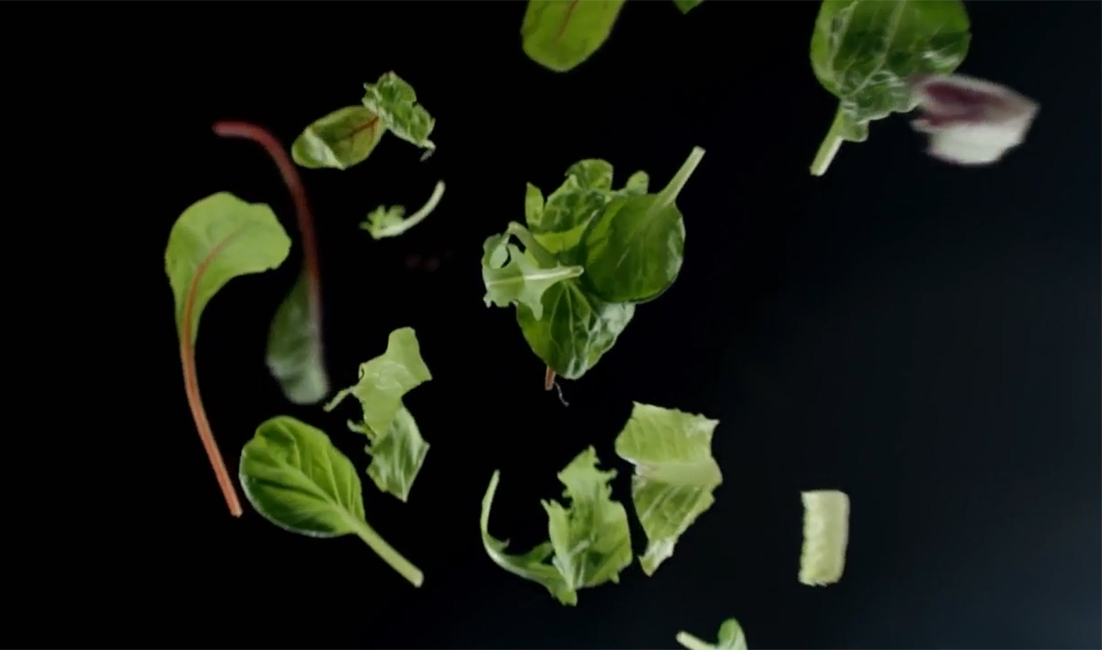
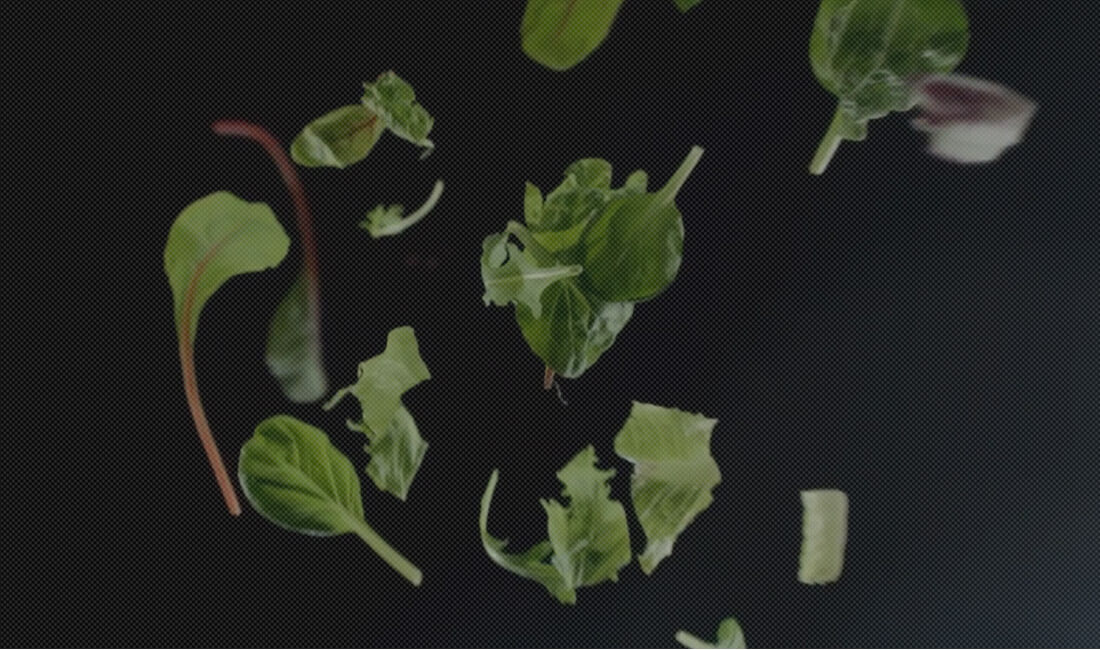
bg changes

diff --git a/css/main.css b/css/main.css
@@ -24,12 +24,9 @@
 .menu {
   position: absolute;
   right: 8%;
-  display: flex;
-  align-items: center;
 }
 .menu__list {
   display: flex;
-  align-items: center;
 }
 .menu__item {
   display: flex;
@@ -46,7 +43,6 @@
   margin-right: 0;
 }
 .menu__link {
-  font-family: 'Ubuntu', sans-serif;
   font-size: 13px;
   font-weight: 500;
   color: #fff;
@@ -65,6 +61,7 @@
 }
 .content__desc {
   line-height: 85px;
+  padding-top: 90px;
 }
 .content__desc_title {
   font-size: 72px;
@@ -189,7 +186,7 @@
   font-family: 'Gagalin Regular', sans-serif;
   font-size: 14px;
   font-weight: 400;
-  line-height: 28.11px;
+  line-height: 28px;
 }
 .reviews__content_desc {
   color: #fff;
@@ -205,7 +202,7 @@
   border-radius: 3px;
   box-sizing: border-box;
   color: white;
-  font-size: 0.8125rem;
+  font-size: 13px;
   text-transform: uppercase;
   text-decoration: none;
 }
@@ -253,13 +250,11 @@ body {
 .button {
   padding: 10px 15px;
   border-radius: 5px;
-  border: none;
   text-decoration: none;
   font-size: 13px;
   font-weight: 400;
   text-transform: uppercase;
   color: #fff;
-  align-items: flex-start;
 }
 
 .sidebar {

diff --git a/css/sections/welcome.css b/css/sections/welcome.css
@@ -20,12 +20,9 @@
 
 .menu {
   position: absolute;
-  right: 8%;
-  display: flex;
-  align-items: center; }
+  right: 8%; }
   .menu__list {
-    display: flex;
-    align-items: center; }
+    display: flex; }
   .menu__item {
     display: flex;
     align-items: center;
@@ -38,7 +35,6 @@
       content: '';
       margin-right: 0; }
   .menu__link {
-    font-family: 'Ubuntu', sans-serif;
     font-size: 13px;
     font-weight: 500;
     color: #fff;
@@ -53,7 +49,8 @@
   .content__photo {
     margin-right: 30px; }
   .content__desc {
-    line-height: 85px; }
+    line-height: 85px;
+    padding-top: 90px; }
     .content__desc_title {
       font-size: 72px;
       color: #f9b43b;

diff --git a/css/sections/welcome.scss b/css/sections/welcome.scss
@@ -7,13 +7,6 @@
 	flex-direction: column;
 	justify-content: space-between;
 	padding: 15px 0 40px 0;
-	// &::before {
-	// 	content: '';
-	// 	position: absolute;
-	// 	width: 100%;
-	// 	height: 100%;
-	// 	background: url('../../img/texture.png');
-	// }
 }
 
 .header {
@@ -66,6 +59,7 @@
 	}
 	&__desc {
 		line-height: 85px;
+		padding-top: 90px;
 		&_title {
 			font-size: 72px;
 			color: #f9b43b;
